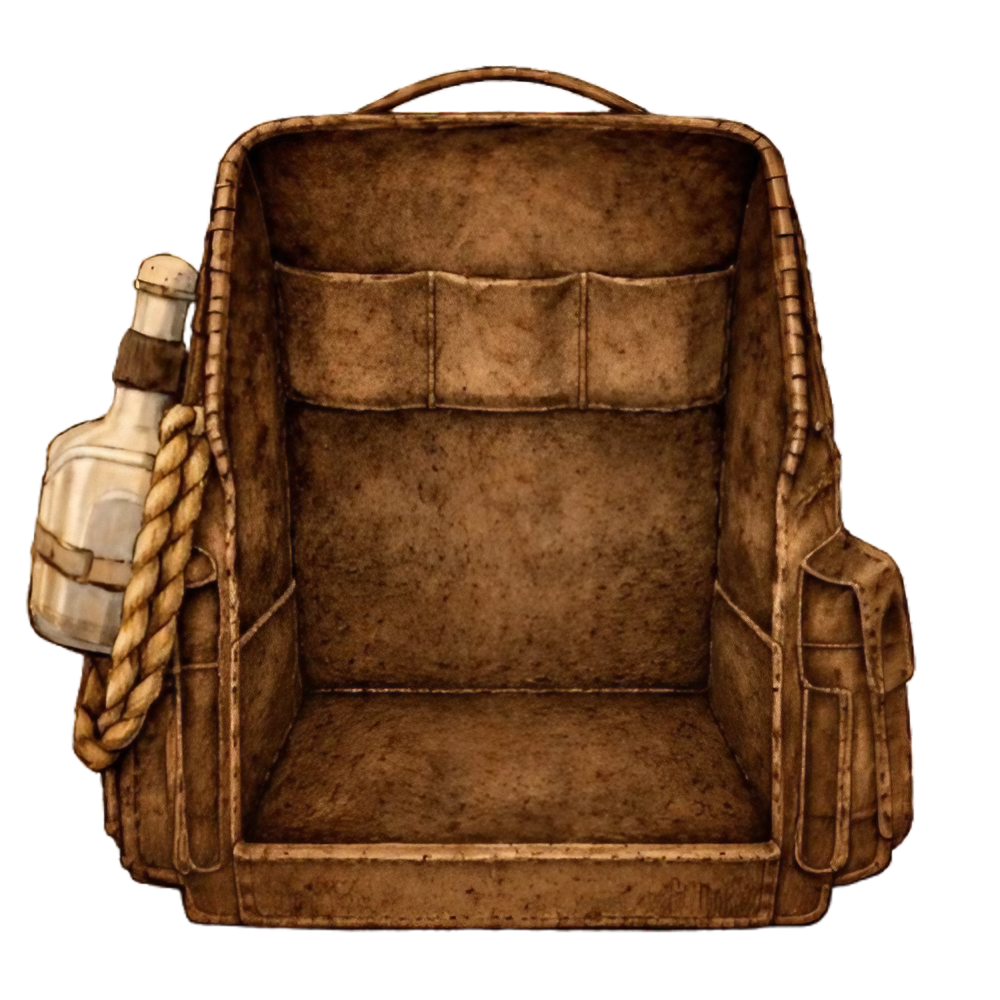
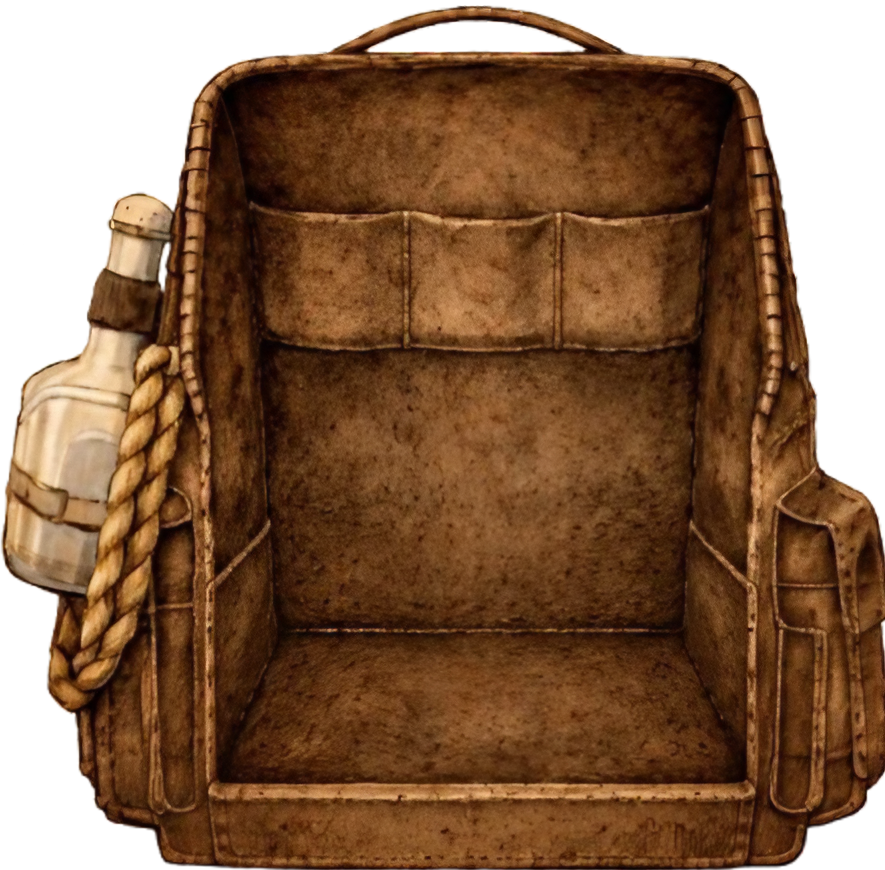
melhoria das imagens e colisao com grab

diff --git a/src/main.cpp b/src/main.cpp
@@ -23,6 +23,8 @@ physicalObject WallGenerator(b2WorldId world, float xP, float yP,float width, fl
     b2BodyId bodyId = b2CreateBody(world, &bodyDef); //cria o "perfil" no mundo 
     b2Polygon bodyBox = b2MakeBox((width/2)/scale, (height/2)/scale); //cria uma caixa com o tamanho definido 
     b2ShapeDef bodyshapeDef = b2DefaultShapeDef(); //coloca o formato como quadrado padrao do box2d 
+    bodyshapeDef.filter.categoryBits = CAT_PAREDE;
+    bodyshapeDef.filter.maskBits = CAT_ITEM | CAT_ITEMSEGURADO;
     b2CreatePolygonShape(bodyId, &bodyshapeDef, &bodyBox); //aplica o formato e a caixa em um poligono 
     physicalObject Parede;
     Parede.isWall = true;
@@ -43,6 +45,8 @@ physicalObject ItemGenerator(b2WorldId world, ItemTemplate& templ, float xP, flo
     if(!templ.itemPhysical->isCircle){
         b2Polygon bodyBox = b2MakeBox((templ.itemPhysical->width/2)/scale, (templ.itemPhysical->height/2)/scale);
         b2ShapeDef bodyshapeDef = b2DefaultShapeDef();
+        bodyshapeDef.filter.categoryBits = CAT_ITEM;
+        bodyshapeDef.filter.maskBits = CAT_PAREDE | CAT_ITEM;
         bodyshapeDef.density = 1.0f;
         Item.shapeId = b2CreatePolygonShape(bodyId, &bodyshapeDef, &bodyBox); // só uma vez
     } else {
@@ -50,6 +54,9 @@ physicalObject ItemGenerator(b2WorldId world, ItemTemplate& templ, float xP, flo
         circle.center = {0.0f, 0.0f};
         circle.radius = templ.itemPhysical->radius/scale;
         b2ShapeDef ballshapeDef = b2DefaultShapeDef();
+        ballshapeDef.filter.categoryBits = CAT_ITEM;
+        ballshapeDef.filter.maskBits = CAT_PAREDE | CAT_ITEM;
+        ballshapeDef.density = 1.0f;
         ballshapeDef.density = 1.0f;
         Item.shapeId = b2CreateCircleShape(bodyId, &ballshapeDef, &circle); // só uma vez
     }
@@ -70,6 +77,10 @@ void grab(physicalObject& body){
     float angle = b2Rot_GetAngle(rot);
     
     if(IsMouseButtonUp(0)){
+        b2Filter filter = b2Shape_GetFilter(body.shapeId);
+        filter.maskBits = CAT_ITEM | CAT_PAREDE;
+        b2Shape_SetFilter(body.shapeId, filter);
+
         if(GrabbedObject == &body){
             GrabbedObject = nullptr;
         }
@@ -84,6 +95,11 @@ void grab(physicalObject& body){
     if(GrabbedObject == &body){
         b2Vec2 direction = {mousePoint.x - pos.x, mousePoint.y - pos.y};
         b2Vec2 speed = {direction.x * (body.templateData.itemData->item->getWeight()*10), direction.y * (body.templateData.itemData->item->getWeight()*10)};
+        
+        b2Filter filter = b2Shape_GetFilter(body.shapeId);
+        filter.maskBits = CAT_ITEM;
+        b2Shape_SetFilter(body.shapeId, filter);
+
         b2Body_SetLinearVelocity(body.bodyId, speed);
         
         if(IsKeyDown(KEY_A)){
@@ -104,8 +120,8 @@ void grab(physicalObject& body){
 int main()
 {
     //seta o tamanho da tela
-    const int screenWidth = 1280;
-    const int screenHeight = 720;
+    const int screenWidth = 1280*1.5;
+    const int screenHeight = 720*1.5;
     
     
     //nome da janela e FPS
@@ -120,8 +136,8 @@ int main()
     
     std::vector<physicalObject> BackpackWalls;
     BackpackWalls.push_back(WallGenerator(world, screenWidth/2, screenHeight/2+275, 400, 10,b2_staticBody));
-    BackpackWalls.push_back(WallGenerator(world, screenWidth/2-135, screenHeight/2+100, 10, 400,b2_staticBody));
-    BackpackWalls.push_back(WallGenerator(world, screenWidth/2+180, screenHeight/2+100, 10, 400,b2_staticBody));
+    BackpackWalls.push_back(WallGenerator(world, screenWidth/2-145, screenHeight/2+100, 10, 400,b2_staticBody));
+    BackpackWalls.push_back(WallGenerator(world, screenWidth/2+190, screenHeight/2+100, 10, 400,b2_staticBody));
     
     
     std::vector<physicalObject> TotalItems;
@@ -129,7 +145,10 @@ int main()
         TotalItems.push_back(ItemGenerator(world, cuboslime, (screenWidth/2), screenHeight/2-400, b2_dynamicBody));
     }   
     TotalItems.push_back(ItemGenerator(world, espadacurta, (screenWidth/2)+(2*50)-50, screenHeight/2-100, b2_dynamicBody));
-    TotalItems.push_back(ItemGenerator(world, pocaomisteriosa, (screenWidth/2+200), screenHeight/2-400, b2_dynamicBody));
+    TotalItems.push_back(ItemGenerator(world, pocaomisteriosa, (screenWidth/2+150), screenHeight/2-400, b2_dynamicBody));
+    
+    Texture2D openbackpackTex = LoadTexture("images/open backpack.png");
+    
     
     while (!WindowShouldClose())
     {
@@ -140,10 +159,13 @@ int main()
         for(physicalObject& body : TotalItems){
             grab(body);
         }
-
+        
         BeginDrawing();
         ClearBackground(WHITE);
         
+        DrawTextureEx(openbackpackTex, (Vector2){screenWidth/2-(float)(openbackpackTex.width/4)-45,screenHeight/2-(float)(openbackpackTex.height/4)+20}, 0, 0.6, WHITE);
+
+        /*
         for (const physicalObject& body : BackpackWalls) {
             b2Vec2 pos = b2Body_GetPosition(body.bodyId);
             float x = pos.x * scale, y = pos.y * scale;
@@ -155,7 +177,9 @@ int main()
                 RED
             );
         }
-
+        */
+        
+        
         for (const physicalObject& body : TotalItems) {
             b2Rot rot = b2Body_GetRotation(body.bodyId);
             b2Vec2 pos = b2Body_GetPosition(body.bodyId);
@@ -167,6 +191,7 @@ int main()
             float h = body.templateData.itemPhysical->height;
 
             Texture2D tex = body.templateData.itemPhysical->texture;
+            
 
             DrawTexturePro(
                 body.templateData.itemPhysical->texture,

diff --git a/src/item.h b/src/item.h
@@ -5,6 +5,10 @@
 #include <string>
 #include <random>
 
+#define CAT_PAREDE  0x0001
+#define CAT_ITEM    0x0002
+#define CAT_ITEMSEGURADO  0x0004
+
 enum weaponType { sword = 1, polearm = 2, bow = 3 };
 enum potionType { support = 1, aggressive = 2, mystery = 3 };
 enum amount { small = 1, medium = 2, big = 3 };
